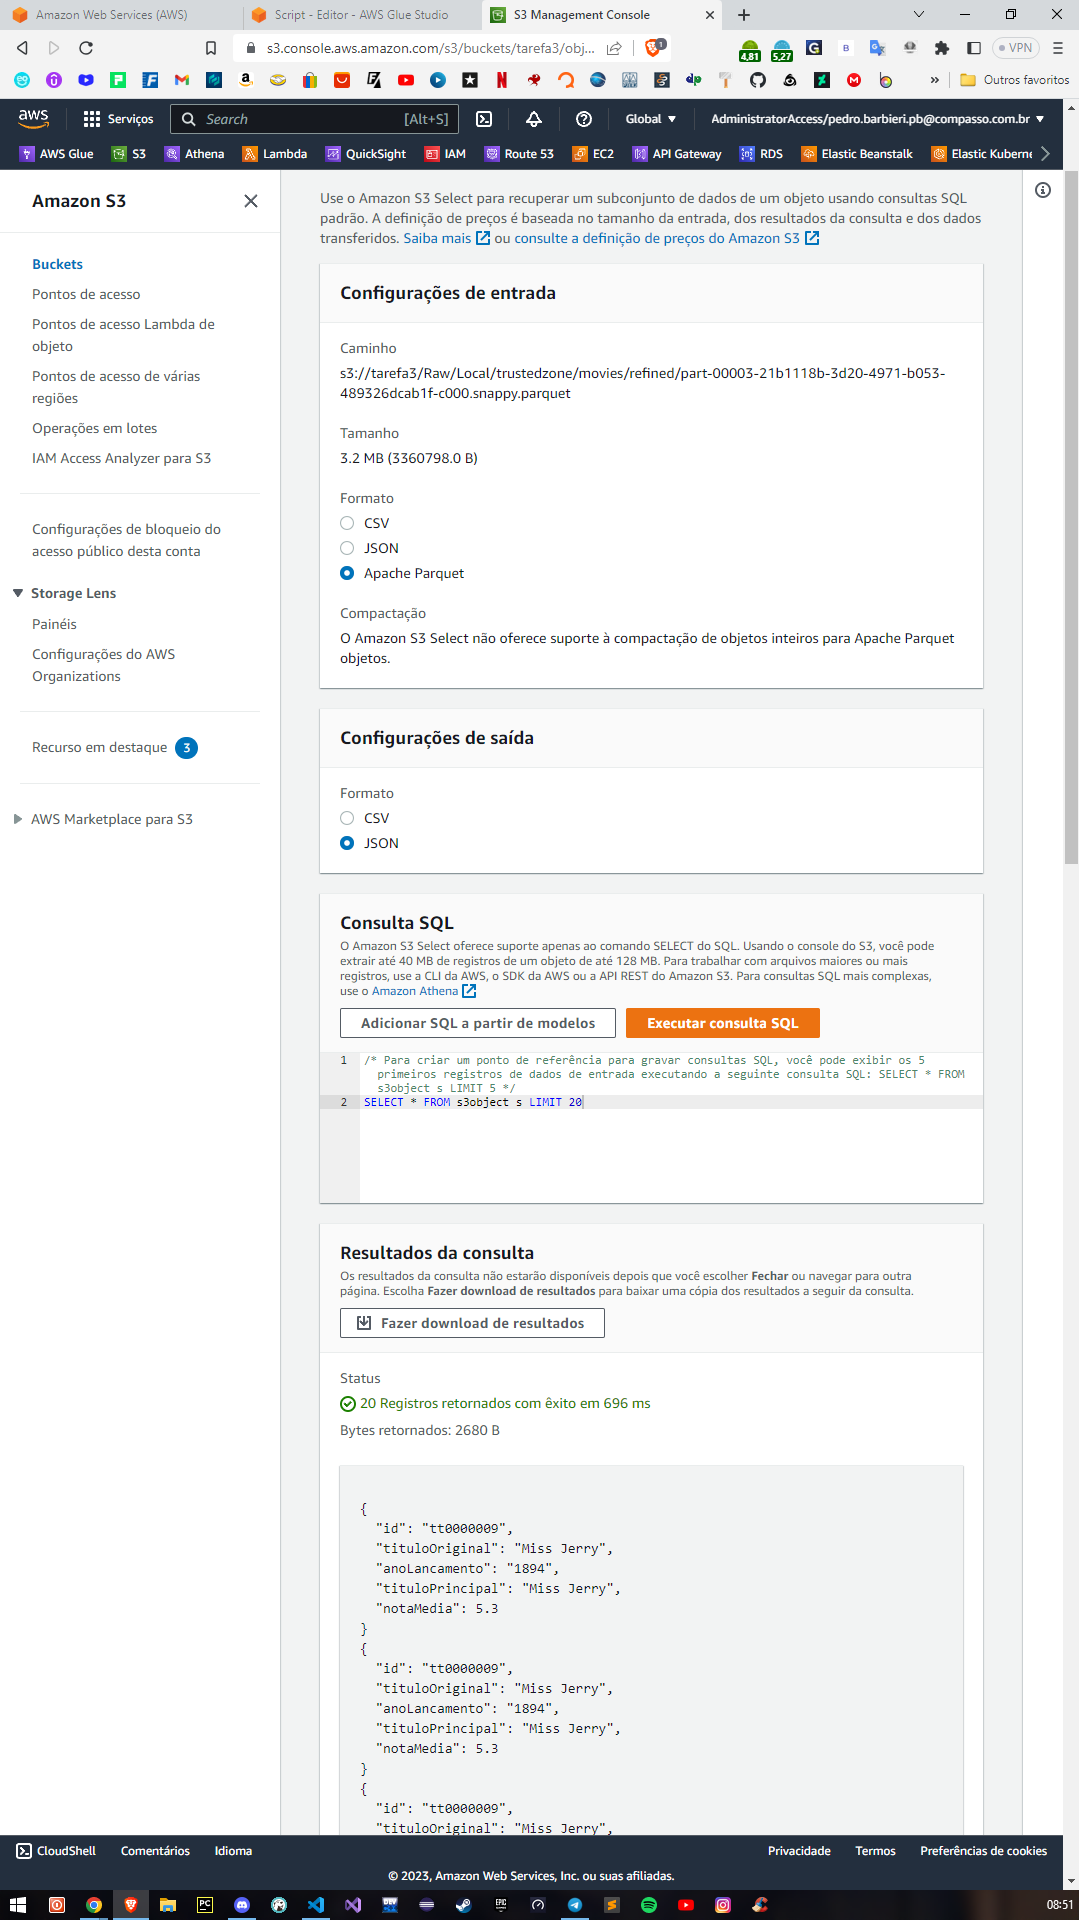
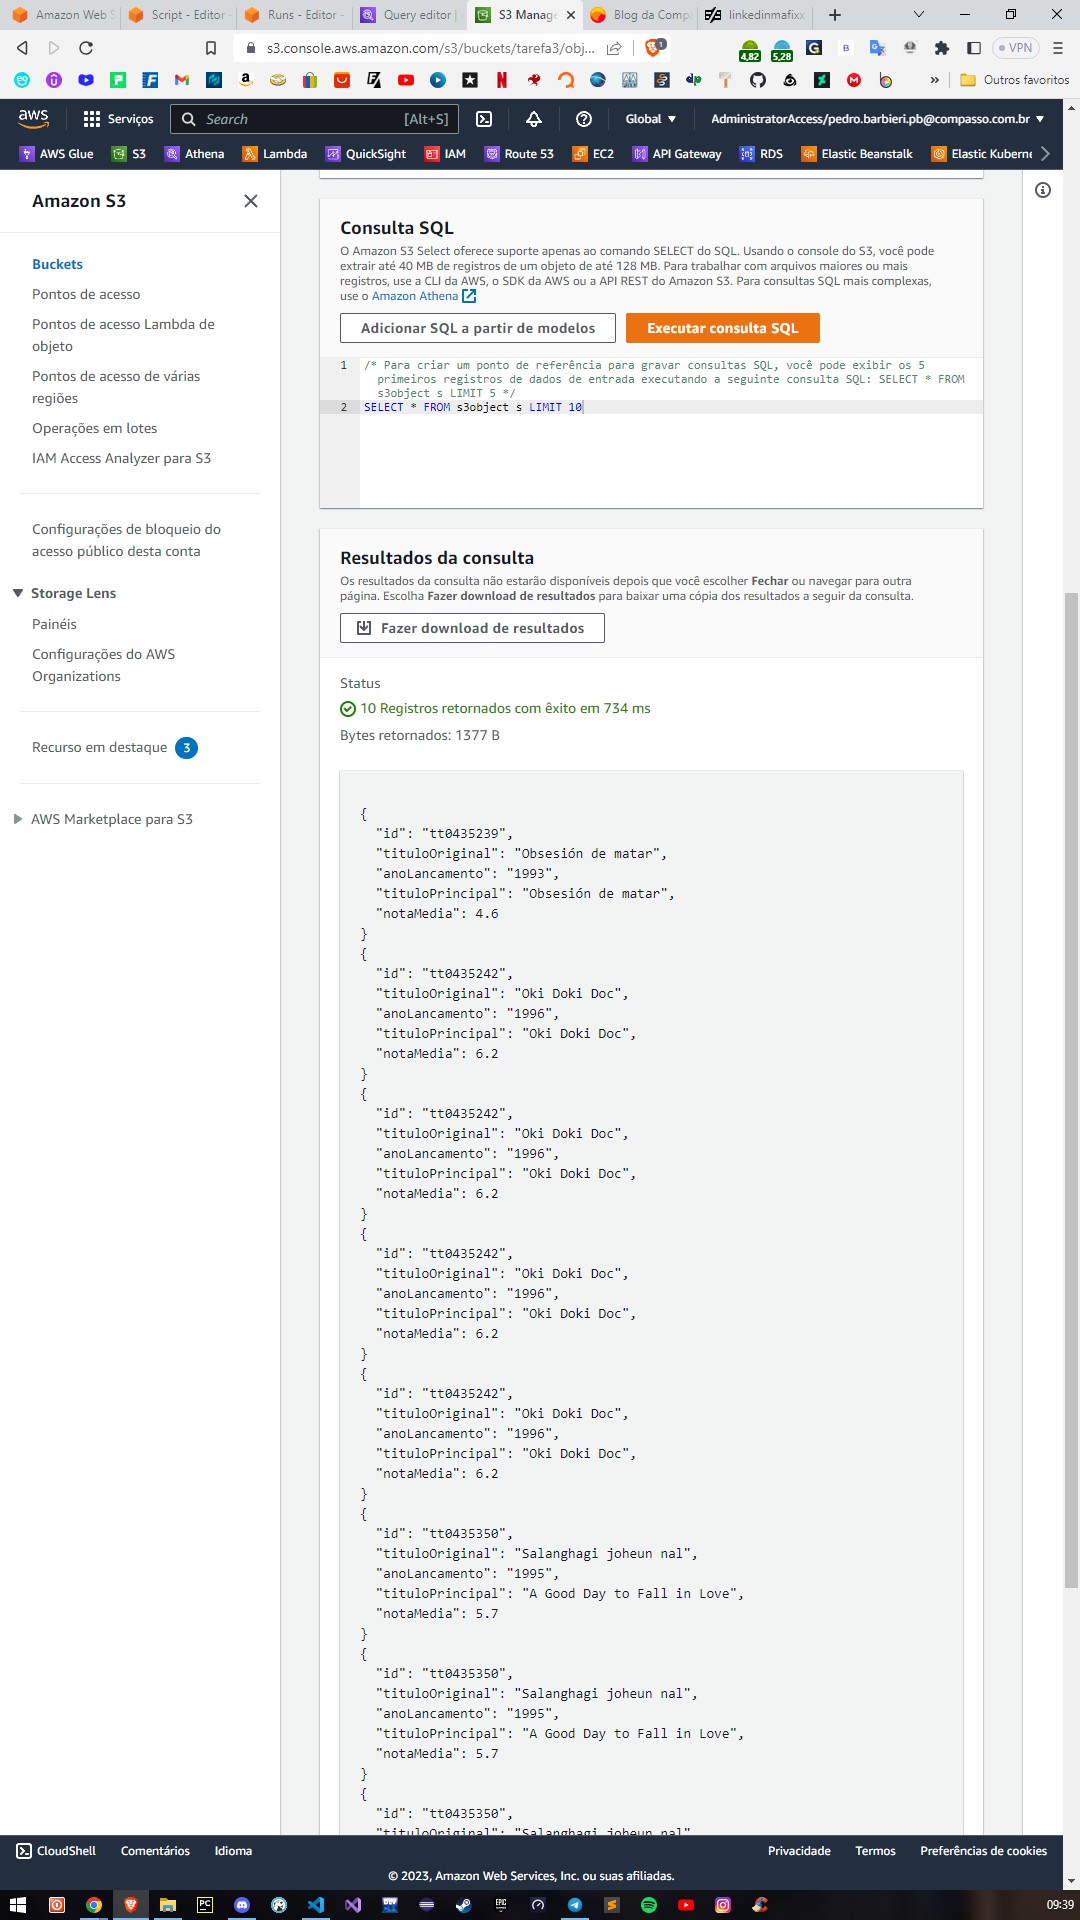
task5 final

diff --git a/Sprint 9/Tarefa5/refinedZoneFinal.py b/Sprint 9/Tarefa5/refinedZoneFinal.py
@@ -33,7 +33,7 @@ refined_data = df_csv.select(
 )
 
 # Filtra os dados pela década de 90
-# refined_data = refined_data.filter((col("anoLancamento") >= 1990) & (col("anoLancamento") <= 1999))
+refined_data = refined_data.filter((col("anoLancamento") >= 1990) & (col("anoLancamento") <= 1999))
 
 # Escreve os dados processados na área Refined
 refined_path = "s3://tarefa3/Raw/Local/trustedzone/movies/refined"
